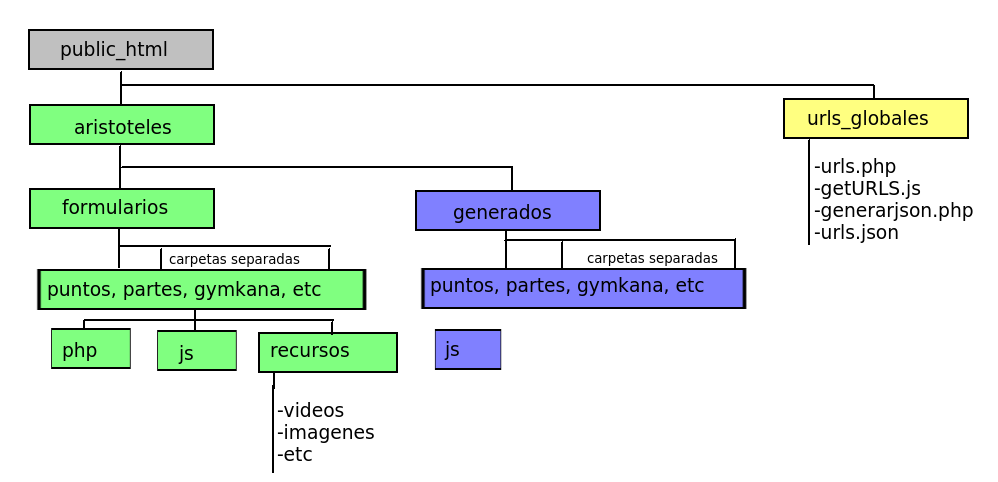
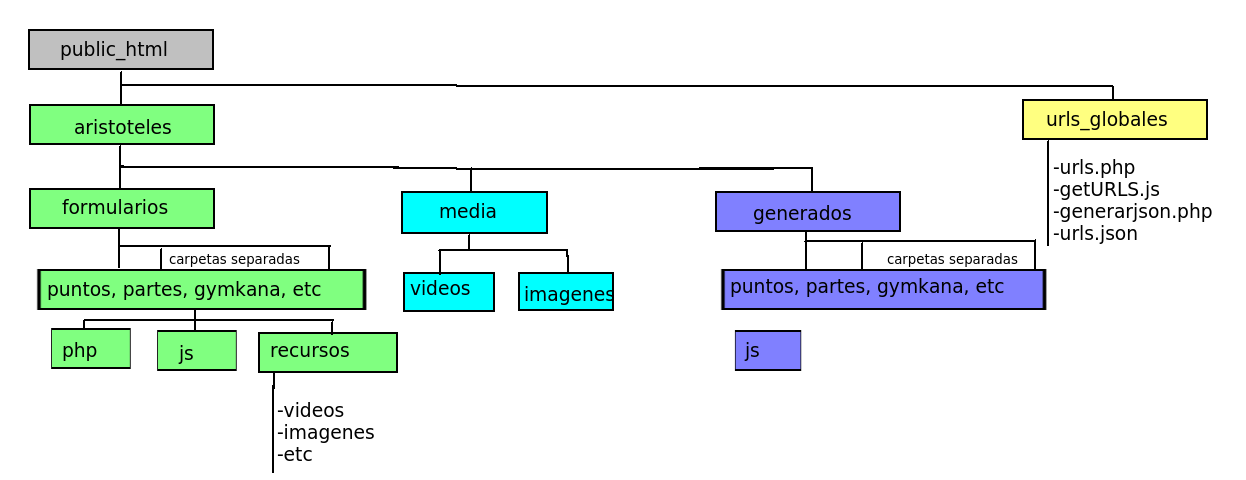
cambios de urls

Changed region(s): [[0.0, 0.0312, 0.994, 0.9688], [0.5902, 0.6875, 0.6523, 0.7812]]

diff --git a/urls_globales/urls.php b/urls_globales/urls.php
@@ -15,7 +15,7 @@
 	´´´´´´´´´´´´´´´´´´´´´´´´
 	Para HOSTGATOR, la raíz del sitio es "/~morfo3/". Para otros casos suele ser sencillamente "/".
 	Notar que la primera URL es la única que debe estar hardcodeada.
-	IMPORTANTÍSIMO: Para que esto funcione, debe haberse ejecutado el archivo "generarjson.php" después de la última vez que se le hicieron cambios a este script "urls.php". Busque las instrucciones de cómo hacer esto.
+	IMPORTANTÍSIMO: Para que esto funcione, debe haberse ejecutado el archivo "generarjson.php" después de la última vez que se le hicieron cambios a este script "urls.php". Busque las instrucciones de cómo hacer esto en el README.
 	Tras lo anterior, todas las url's están en el diccionario javascript URLS. Accesarlas como URLS["<nombre de la variable en urls.php>"].
 
 
@@ -49,6 +49,7 @@
 	//!!!!!!!!!!!!!!$url_phps = 				"$protocolo$url_raiz_sitio/formularios_php";//URL hacia php's de formularios
 	$url_aris_form = 			"$protocolo$url_raiz_sitio/aristoteles/formularios";//URL hacia recursos de los formularios
 	$url_aris_gen = 			"$protocolo$url_raiz_sitio/aristoteles/generados";//URL hacia artículos generados
+	$url_media = 				"$protocolo$url_raiz_sitio/aristoteles/media";
 	// paths servidor
 
 	//########### IMPORTANTE ############# CAMBIAR ESTA VARIABLE SEGÚN EL WEBSERVER
@@ -56,6 +57,7 @@
 	//!!!!!!!!!!!!!!$path_phps = 				"$path_raiz_server/formularios_php";		//Path en server hacia php's de formularios
 	$path_aris_form = 			"$path_raiz_server/aristoteles/formularios";//Path en server hacia recursos de los formularios
 	$path_aris_gen = 			"$path_raiz_server/aristoteles/generados"; 	//Path en server hacia artículos generados
+	$path_media = 				"$path_raiz_server/aristoteles/media";
 	// Formulario puntos
 	$path_js_puntos =			"$path_aris_gen/puntos/js";				//Carpeta donde guardar js's generados
 	$url_js_puntos = 			"$url_aris_gen/puntos/js";				// url para pedir js's generados
@@ -78,4 +80,9 @@
 	$url_template_gym = 		"$url_aris_form/gymkana/js/template.js";
 	$url_gymkana_gym = 			"$url_aris_form/gymkana/js/gymkana.js";
 	$url_form_gym = 			"$url_aris_form/gymkana/js/formulario.js";
+
+	// Formularios Tutu-Tutu
+	$url_thumb_tutu = 			"$url_media/imagenes/thumbs";
+	$url_form_tutu = 			"$url_aris_form/tutututu/js/formulario.js";
+	$url_tutu_tutu = 			"$url_aris_form/tutututu/js/tutututu.js";
 ?>
